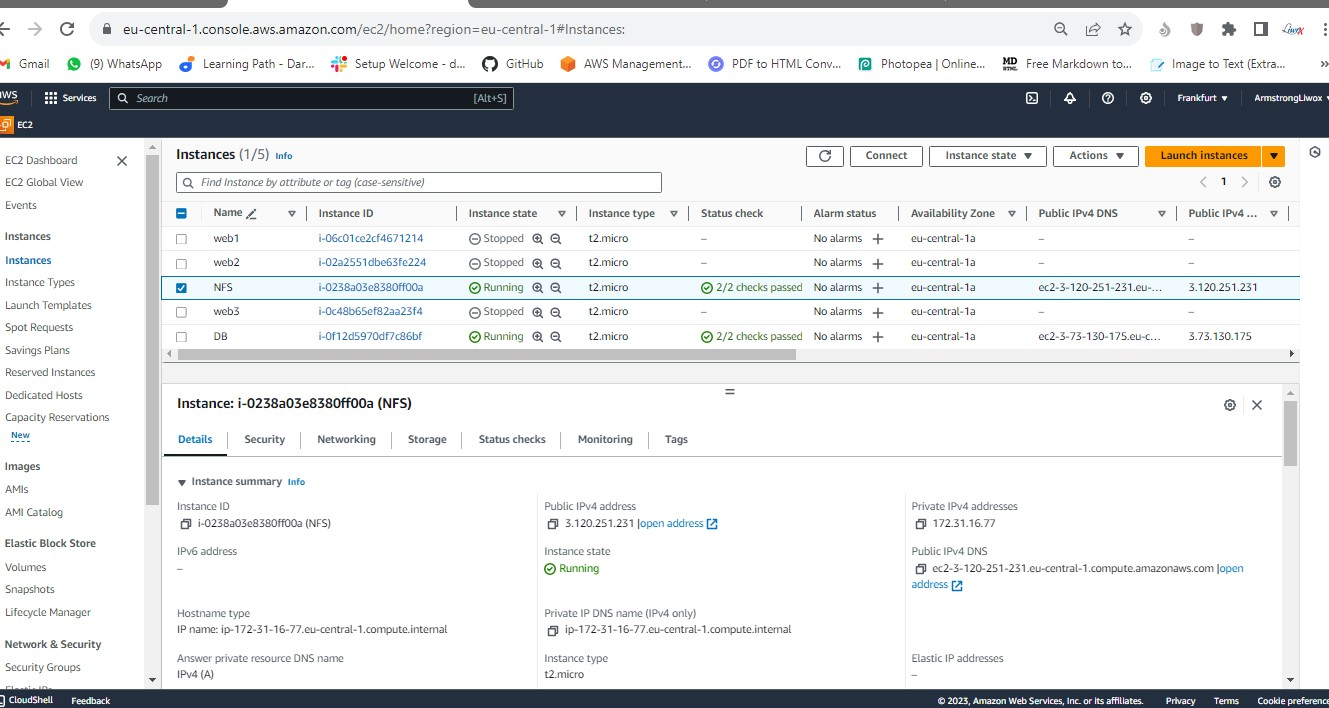
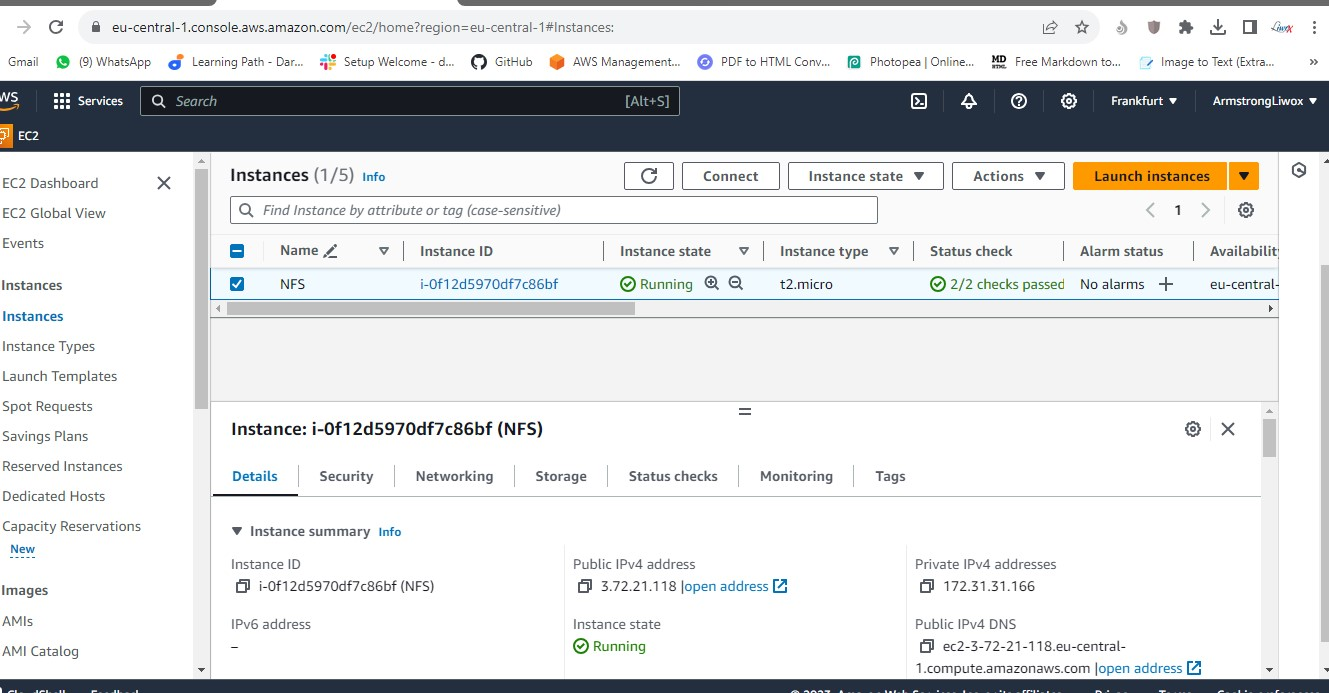
pixx

diff --git a/README.md b/README.md
@@ -147,9 +147,7 @@ RHEL-8.6.0_HVM-20220503-x86_64-2-Hourly2-GP2 (ami-035c5dc086849b5de)
 
 > 1. Spin up a new EC2 instance with RHEL Linux 8 Operating System.
 
-![ec2 nfs](<images/spinup ec2.jpg>)
-
-![instances](images/instances.jpg)
+![instances1](images/Screenshot_1.jpg)
 
 ![volumes](images/volumes.jpg)
 
